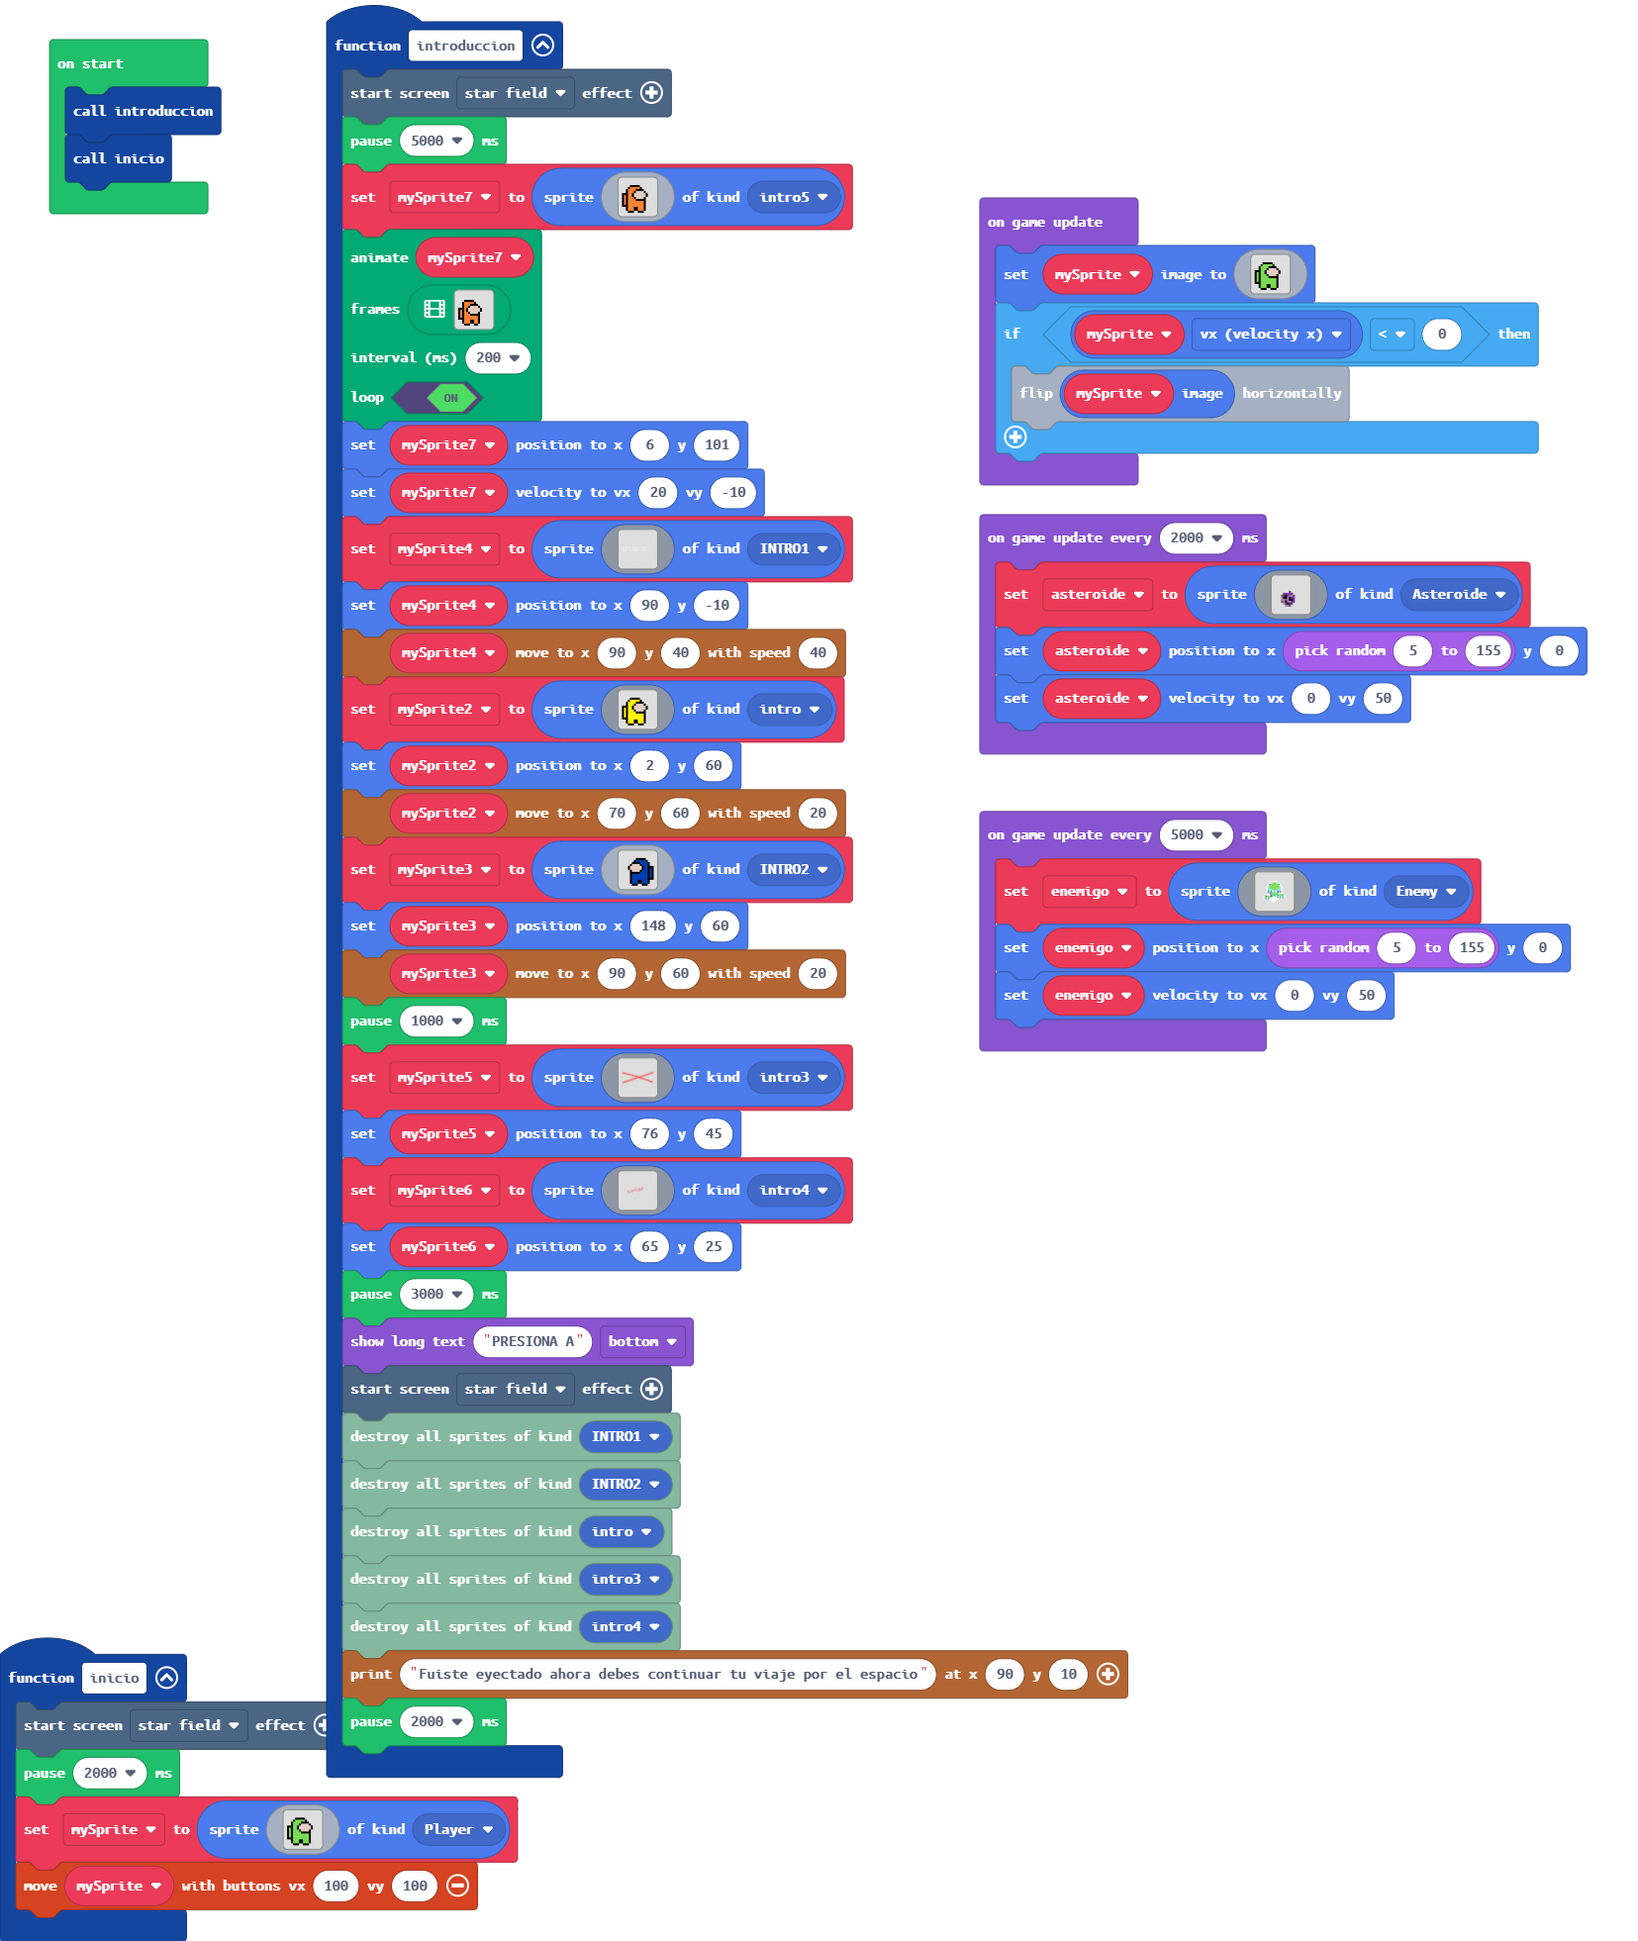
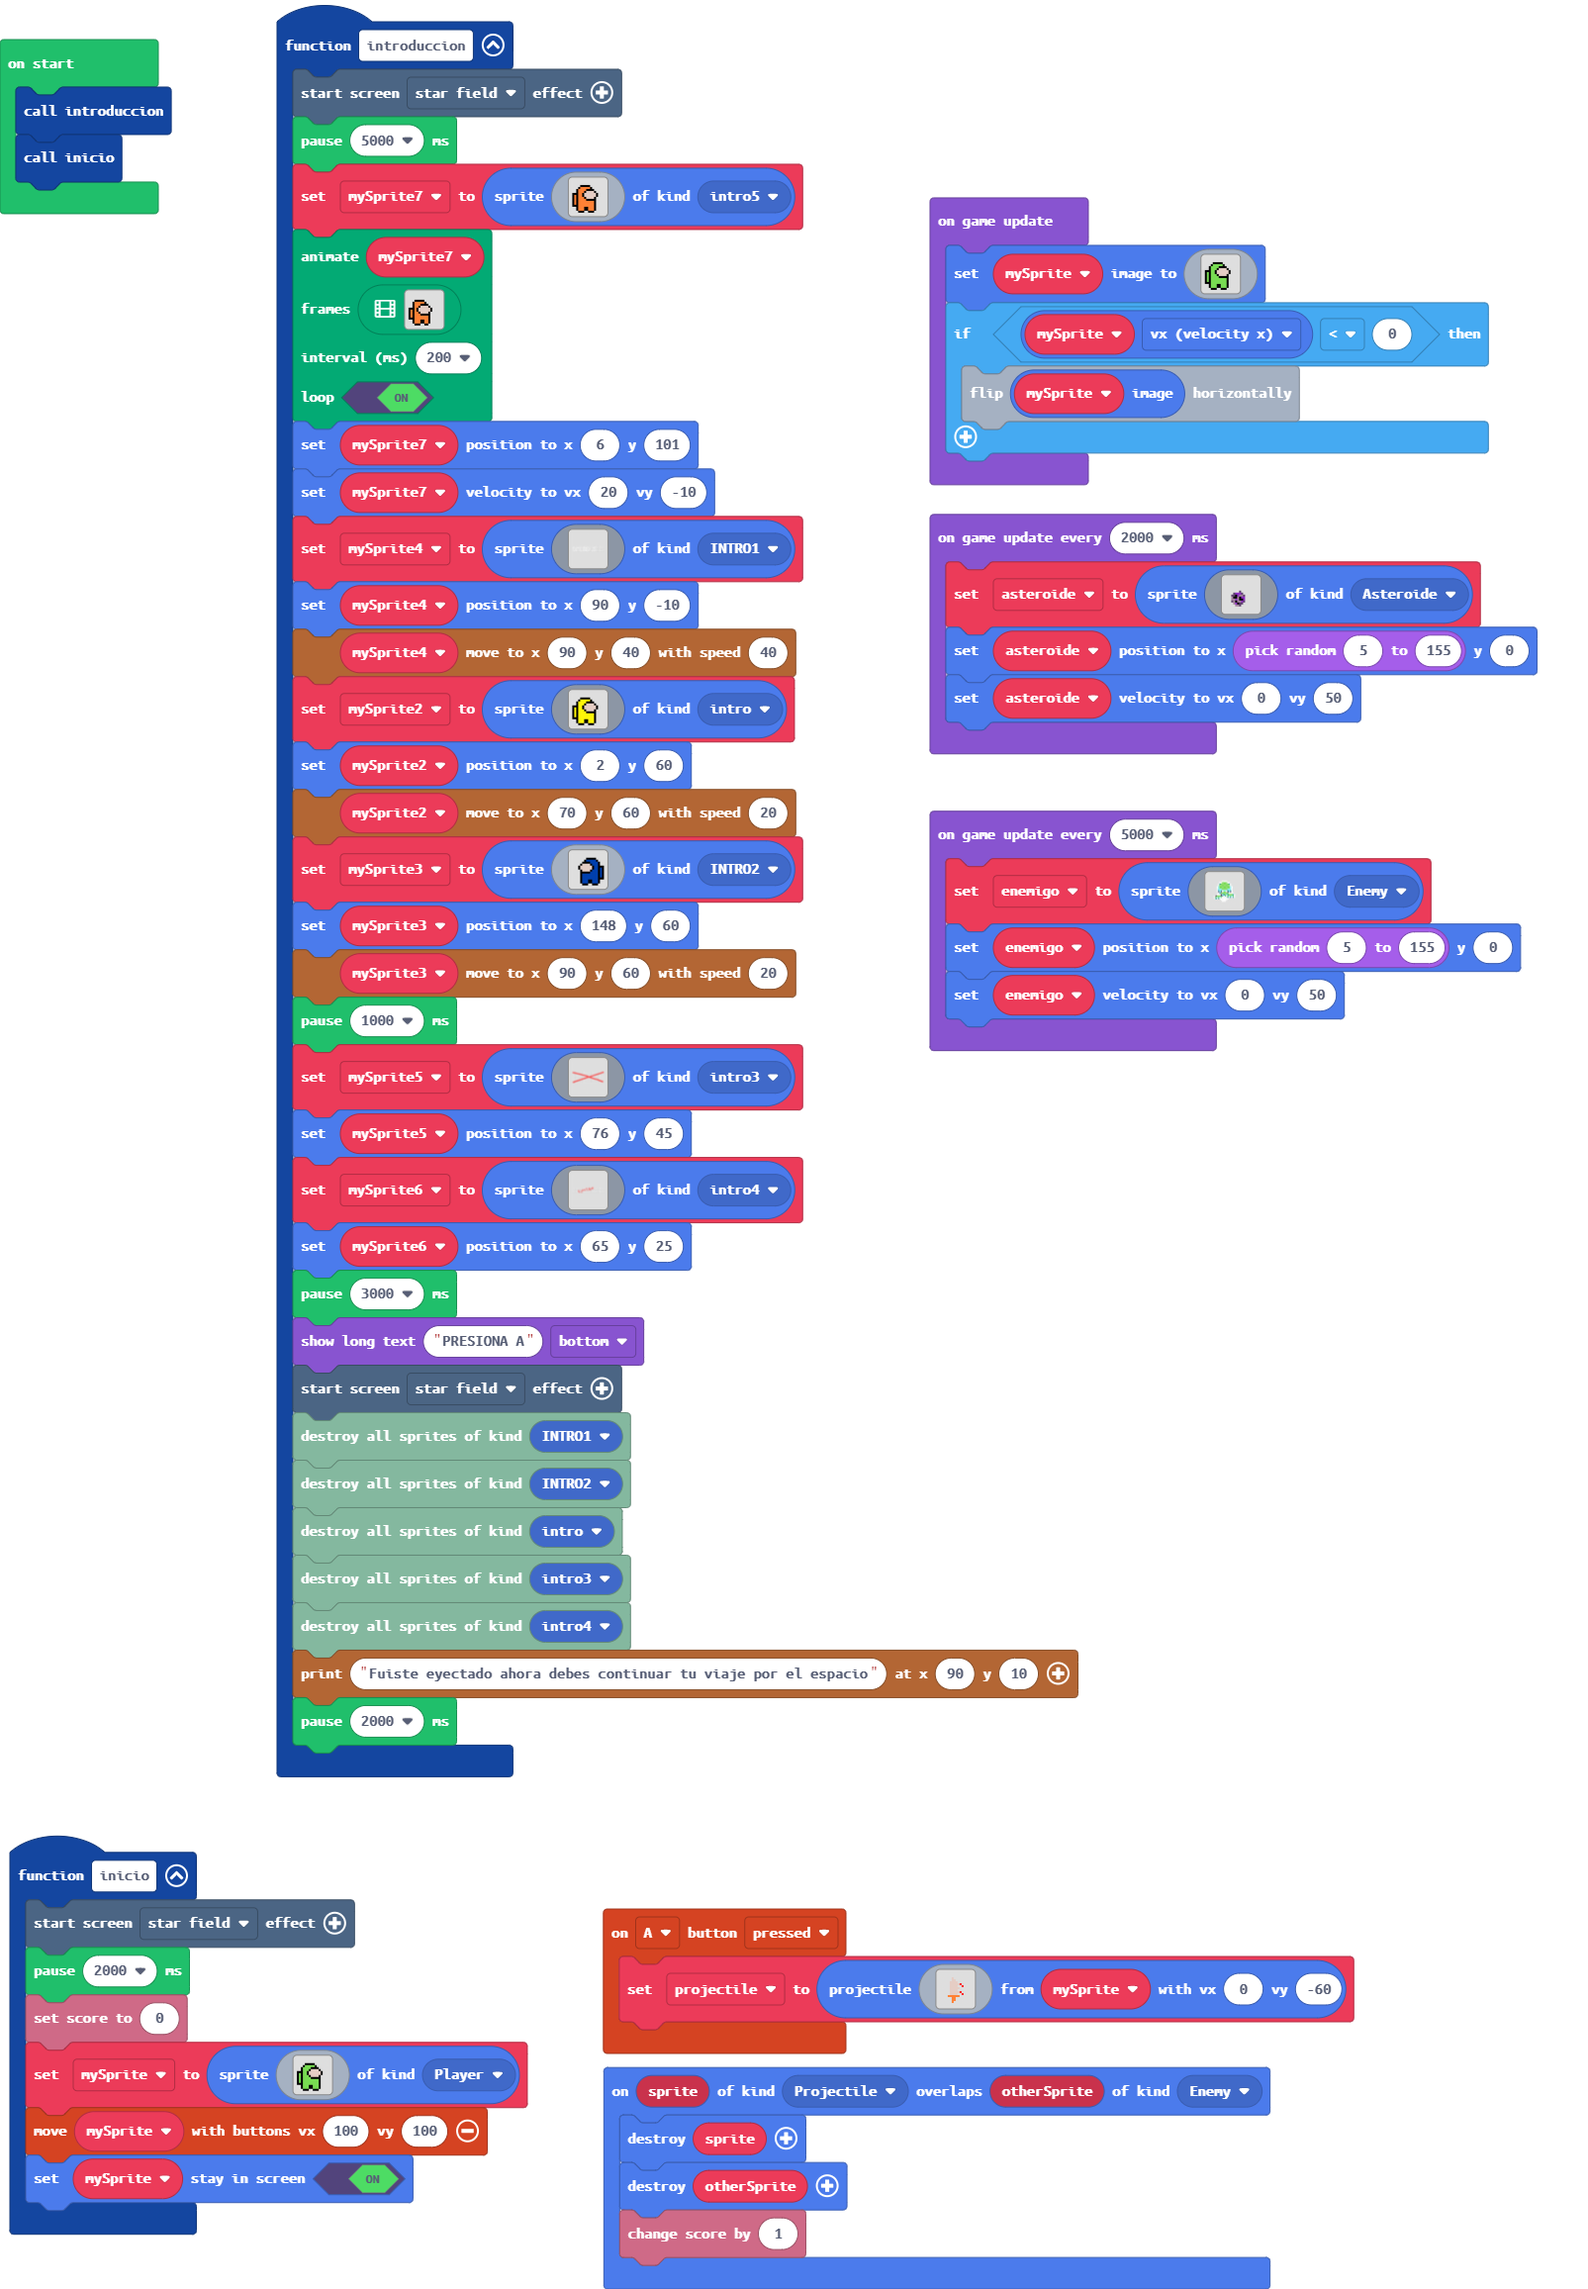
Update main.blocks, main.ts

diff --git a/main.ts b/main.ts
@@ -8,9 +8,30 @@ namespace SpriteKind {
     export const intro4 = SpriteKind.create()
     export const intro5 = SpriteKind.create()
 }
+controller.A.onEvent(ControllerButtonEvent.Pressed, function () {
+    projectile = sprites.createProjectileFromSprite(img`
+        . . . . . . . . . . . . . . . . 
+        . . . . . . . . . . . . . . . . 
+        . . . . . . d . . . . . . . . . 
+        . . . . . . d d . . . . . . . . 
+        . . . . . d d d d . . . . . . . 
+        . . . . . d d d d d 2 . . . . . 
+        . . . . . d d d d . . 2 . . . . 
+        . . . . . d d d d d . . . . . . 
+        . . . . . d d d d . . . . . . . 
+        . . . . . d d d d d 2 . . . . . 
+        . . . . . d d d d . . 2 . . . . 
+        . . . . 4 4 4 4 4 4 . . . . . . 
+        . . . . . . 4 4 . . . . . . . . 
+        . . . . . . 4 4 . . . . . . . . 
+        . . . . . . 4 . . . . . . . . . 
+        . . . . . . . . . . . . . . . . 
+        `, mySprite, 0, -60)
+})
 function inicio () {
     effects.starField.startScreenEffect()
     pause(2000)
+    info.setScore(0)
     mySprite = sprites.create(img`
         . . . . . . . . . . . . . . . . 
         . . . . . . . . . . . . . . . . 
@@ -30,6 +51,7 @@ function inicio () {
         . . . f f f . . f f f . . . . . 
         `, SpriteKind.Player)
     controller.moveSprite(mySprite, 100, 100)
+    mySprite.setStayInScreen(true)
 }
 function introduccion () {
     effects.starField.startScreenEffect()
@@ -254,6 +276,11 @@ function introduccion () {
     story.printText("Fuiste eyectado ahora debes continuar tu viaje por el espacio", 90, 10)
     pause(2000)
 }
+sprites.onOverlap(SpriteKind.Projectile, SpriteKind.Enemy, function (sprite, otherSprite) {
+    sprite.destroy()
+    otherSprite.destroy()
+    info.changeScoreBy(1)
+})
 let asteroide: Sprite = null
 let enemigo: Sprite = null
 let mySprite6: Sprite = null
@@ -263,6 +290,7 @@ let mySprite2: Sprite = null
 let mySprite4: Sprite = null
 let mySprite7: Sprite = null
 let mySprite: Sprite = null
+let projectile: Sprite = null
 introduccion()
 inicio()
 game.onUpdate(function () {
